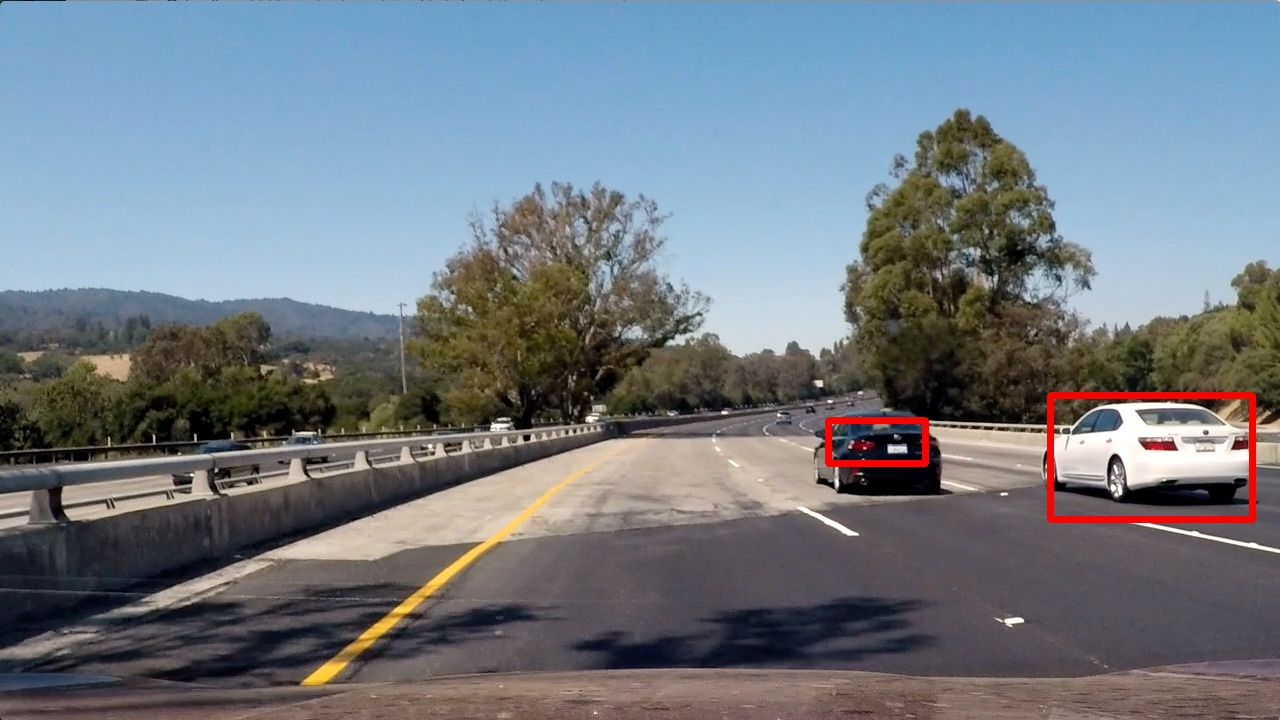
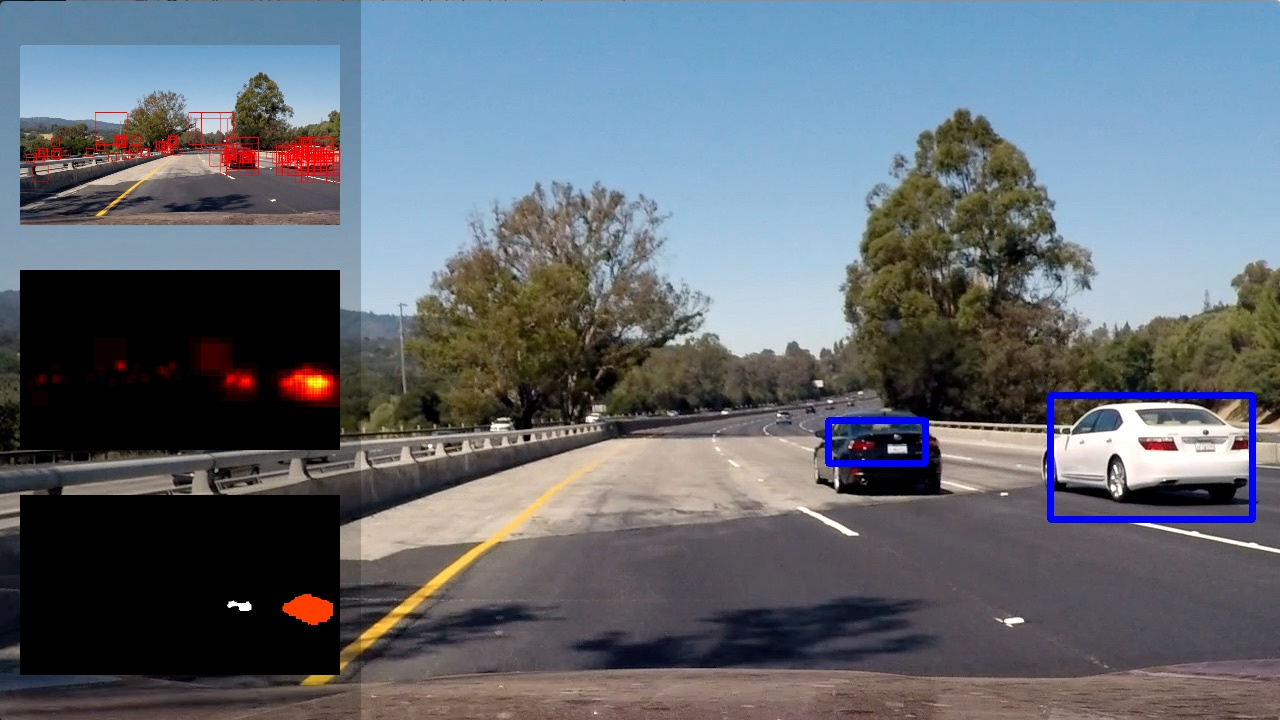
added function to prepare output blend

Changed region(s): [[0.0, 0.0, 0.2812, 1.0], [0.8125, 0.5194, 1.0, 0.7333], [0.625, 0.55, 0.75, 0.6722]]

diff --git a/project_5_vehicle_detection/main.py b/project_5_vehicle_detection/main.py
@@ -4,7 +4,34 @@ import numpy as np
 import pickle
 from functions_detection import *
 from scipy.ndimage.measurements import label
-import matplotlib.pyplot as plt
+from functions_utils import normalize_image
+
+
+def prepare_output_blend(frame, img_hot_windows, img_heatmap, img_labeling, img_detection):
+
+    h, w, c = frame.shape
+
+    # decide the size of thumbnail images
+    thumb_ratio = 0.25
+    thumb_h, thumb_w = int(thumb_ratio * h), int(thumb_ratio * w)
+
+    # resize to thumbnails images from various stages of the pipeline
+    thumb_hot_windows = cv2.resize(img_hot_windows, dsize=(thumb_w, thumb_h))
+    thumb_heatmap = cv2.resize(img_heatmap, dsize=(thumb_w, thumb_h))
+    thumb_labeling = cv2.resize(img_labeling, dsize=(thumb_w, thumb_h))
+
+    off_x, off_y = 20, 45
+
+    # add a semi-transparent rectangle to highlight thumbnails on the left
+    mask = cv2.rectangle(img_detection.copy(), (0, 0), (2*off_x + thumb_w, h), (0, 0, 0), thickness=cv2.FILLED)
+    img_blend = cv2.addWeighted(src1=mask, alpha=0.2, src2=img_detection, beta=0.8, gamma=0)
+
+    # stitch thumbnails
+    img_blend[off_y:off_y+thumb_h, off_x:off_x+thumb_w, :] = thumb_hot_windows
+    img_blend[2*off_y+thumb_h:2*(off_y+thumb_h), off_x:off_x+thumb_w, :] = thumb_heatmap
+    img_blend[3*off_y+2*thumb_h:3*(off_y+thumb_h), off_x:off_x+thumb_w, :] = thumb_labeling
+
+    return img_blend
 
 
 def process_pipeline(frame, svc, feature_scaler, feat_extraction_params, keep_state=True, verbose=False):
@@ -21,18 +48,22 @@ def process_pipeline(frame, svc, feature_scaler, feat_extraction_params, keep_st
     # label connected components
     labeled_frame, num_objects = label(heatmap_thresh)
 
-    # draw bounding boxes
-    frame_out = draw_labeled_bounding_boxes(frame, labeled_frame, num_objects)
+    # prepare images for blend
+    img_hot_windows = draw_boxes(frame, hot_windows, color=(0, 0, 255), thick=2)                 # show pos windows
+    img_heatmap = cv2.applyColorMap(normalize_image(heatmap), colormap=cv2.COLORMAP_HOT)         # draw heatmap
+    img_labeling = cv2.applyColorMap(normalize_image(labeled_frame), colormap=cv2.COLORMAP_HOT)  # draw label
+    img_detection = draw_labeled_bounding_boxes(frame.copy(), labeled_frame, num_objects)        # draw detected bboxes
+
+    img_blend_out = prepare_output_blend(frame, img_hot_windows, img_heatmap, img_labeling, img_detection)
 
     if verbose:
-        # draw `hot boxes` on current frame
-        window_img = draw_boxes(frame, hot_windows, color=(0, 0, 255), thick=1)
-        plt.imshow(window_img)
-        plt.imshow(labeled_frame, cmap='Accent')
-        plt.imshow(cv2.cvtColor(frame_out, code=cv2.COLOR_BGR2RGB))
-        plt.show()
+        cv2.imshow('detection bboxes', img_hot_windows)
+        cv2.imshow('heatmap', img_heatmap)
+        cv2.imshow('labeled frame', img_labeling)
+        cv2.imshow('detections', img_detection)
+        cv2.waitKey()
 
-    return frame_out
+    return img_blend_out
 
 
 if __name__ == '__main__':
@@ -49,10 +80,10 @@ if __name__ == '__main__':
     feat_extraction_params = pickle.load(open('data/feat_extraction_params.pickle', 'rb'))
 
     if mode == 'video':
-        pass
-        # selector = 'project'
-        # clip = VideoFileClip('{}_video.mp4'.format(selector)).fl_image(process_pipeline)
-        # clip.write_videofile('out_{}_{}.mp4'.format(selector, time_window), audio=False)
+        time_window = 1
+        selector = 'project'
+        clip = VideoFileClip('{}_video.mp4'.format(selector)).fl_image(process_pipeline)
+        clip.write_videofile('out_{}_{}.mp4'.format(selector, time_window), audio=False)
 
     else:
 

diff --git a/project_5_vehicle_detection/functions_detection.py b/project_5_vehicle_detection/functions_detection.py
@@ -16,7 +16,7 @@ def draw_labeled_bounding_boxes(img, labeled_frame, num_objects):
         x_min, y_min = np.min(cols), np.min(rows)
         x_max, y_max = np.max(cols), np.max(rows)
 
-        cv2.rectangle(img, (x_min, y_min), (x_max, y_max), color=(0, 0, 255), thickness=6)
+        cv2.rectangle(img, (x_min, y_min), (x_max, y_max), color=(255, 0, 0), thickness=6)
 
     return img
 
@@ -36,7 +36,7 @@ def compute_heatmap_from_detections(frame, hot_windows, threshold=12, verbose=Fa
     # apply threshold + morphological closure to remove noise
     _, heatmap_thresh = cv2.threshold(heatmap, threshold, 255, type=cv2.THRESH_BINARY)
     heatmap_thresh = cv2.morphologyEx(heatmap_thresh, op=cv2.MORPH_CLOSE,
-                                      kernel=cv2.getStructuringElement(cv2.MORPH_ELLIPSE, (13, 13)))
+                                      kernel=cv2.getStructuringElement(cv2.MORPH_ELLIPSE, (13, 13)), iterations=1)
     if verbose:
         f, ax = plt.subplots(1, 3)
         ax[0].imshow(cv2.cvtColor(frame, cv2.COLOR_BGR2RGB))

diff --git a/project_5_vehicle_detection/functions_utils.py b/project_5_vehicle_detection/functions_utils.py
@@ -1,0 +1,13 @@
+import numpy as np
+
+
+def normalize_image(img):
+    """
+    Normalize image between 0 and 255 and cast to uint8
+    (useful for visualization)
+    """
+    img = np.float32(img)
+
+    img = img / img.max() * 255
+
+    return np.uint8(img)
